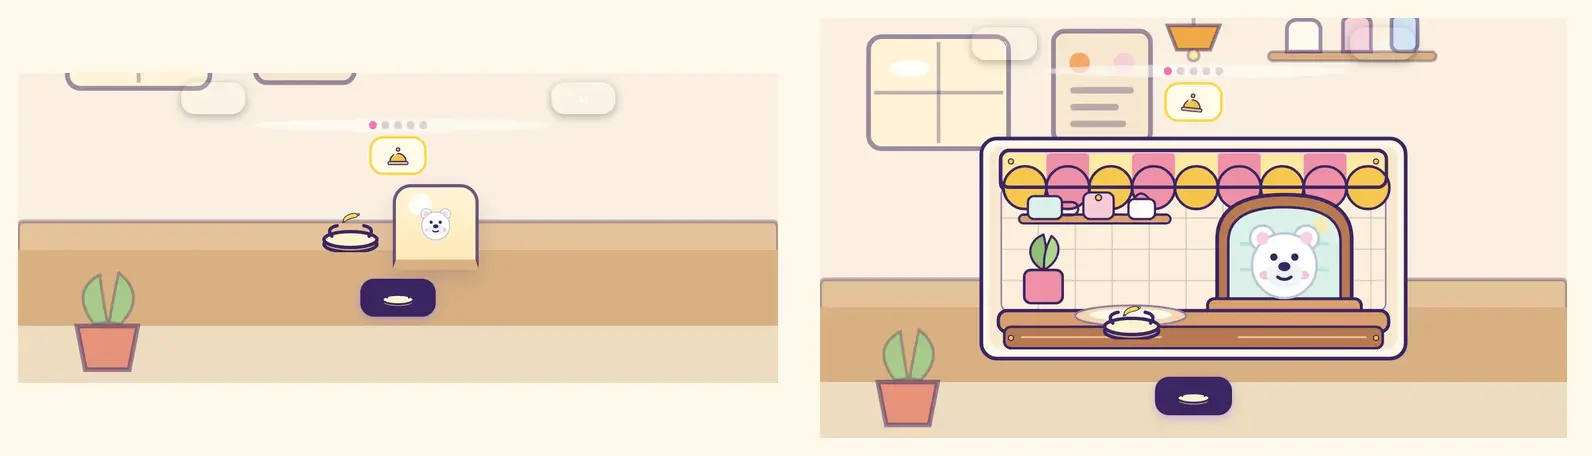
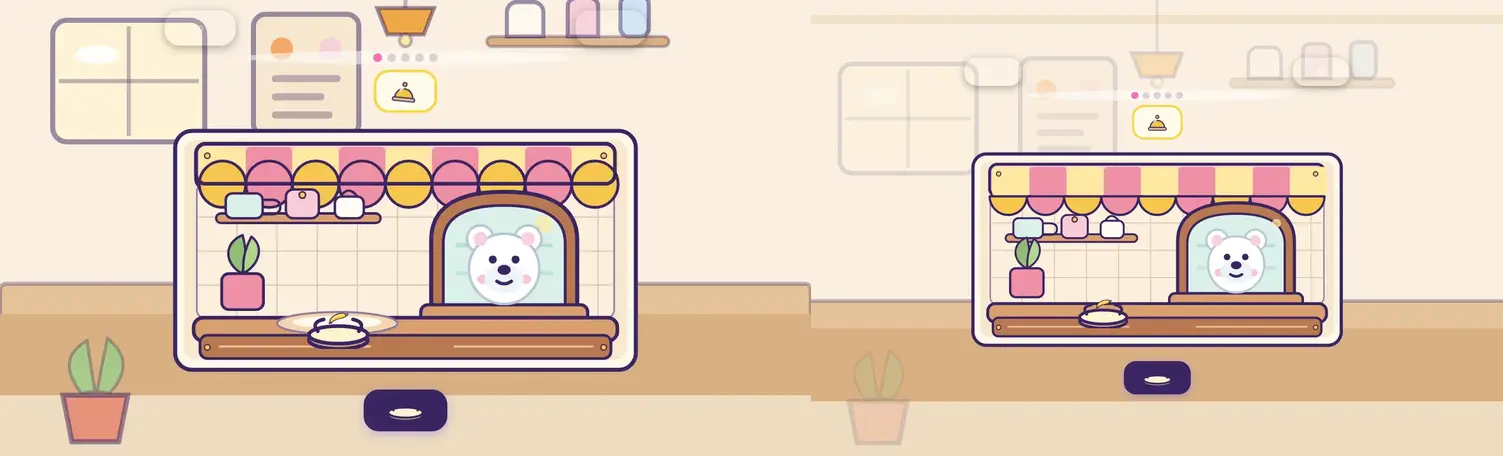
Decrowd the pickup-window proof per owner feedback
The awning becomes true half-disc scallops (no rail through overlapping
balls), the painted counter plate is removed so the live order owns the
zone, the glass shine moves off the customer, the wall shelf drops out
of the awning band, the base environment props step back during
delivery, and the mobile delivery cluster centers so the counter reads
as ground instead of dead space. Editable source and export updated
together; all three evidence captures refreshed; contact sheet is now
pilot-vs-revision. Look approval still pending.

diff --git a/learning-playground/src/styles/child-ui.css b/learning-playground/src/styles/child-ui.css
@@ -3056,6 +3056,17 @@
   gap: var(--space-md);
 }
 
+/* While the production-art scene is on stage, the wall props step back and
+   the stage centers vertically: the proof frame owns the composition, and
+   the counter band reads as ground instead of dead space on mobile. */
+.bear-cafe-environment[data-stage='delivery'] .cafe-env__prop--minor {
+  opacity: 0.28;
+}
+
+.bear-cafe:has(.bear-cafe-delivery__scene--art-proof) .bear-cafe-delivery {
+  margin-block: auto;
+}
+
 /* Production-art proof: the static Inkscape scene frames the existing live
    order and customer. It is decoration only and never owns interaction state. */
 .bear-cafe-delivery__scene--art-proof {

diff --git a/learning-playground/docs/work-contracts/bear-cafe-pickup-proof-decrowd.md b/learning-playground/docs/work-contracts/bear-cafe-pickup-proof-decrowd.md
@@ -1,0 +1,135 @@
+# Bear Cafe pickup-window proof — decrowd revision (art arc slice 1)
+
+Revision of the pickup-window production-art proof (draft PR #92 @
+4eead82) addressing Juan's verdict: "looks okay, but crowded and
+elements overlap." No version bump — the proof branch still does not
+consume a release number pending look approval (per the pilot's own
+contract).
+
+## Before Code
+
+### Root Cause
+
+The proof composed a complete scene UNDERNEATH pre-existing dynamic and
+environment layers instead of composing WITH them. Four concrete
+overlap classes, confirmed against the capture pixels and the SVG
+source:
+
+1. **Awning self-overlap** — nine FULL circles (r=58, spacing 116 <
+   diameter 123) centered ON the awning's bottom edge, with a border
+   rect re-stroked over them: neighbors collide and the rail cuts
+   through every ball.
+2. **Backdrop vs dynamic layers** — the painted counter plate
+   (ellipse at 430,500) sits exactly under the CSS-positioned live
+   order (left 36% / bottom 12%) → double plate; the glass shine
+   (944,254 r23) overlaps the live bear's ear.
+3. **Backdrop internal crowding** — the wall shelf (teapot/jar/cup,
+   y166–238) intrudes into the awning band (scallop bottom ≈ y210).
+4. **Environment collisions + mobile dead band** — the base
+   `bear-cafe-environment` wall props (window, menu board, lamp, wall
+   shelf) stay at full strength behind the proof scene and the
+   floating bell chip / topbar pills; on mobile the base counter band
+   fills the bottom half of the viewport with dead space below the
+   compact scene.
+
+### Correct Fix Must Touch
+
+- `public/assets/images/bear-cafe-pickup-window-proof.svg` AND
+  `design-source/bear-cafe/bear-cafe-pickup-window-proof.svg` (kept in
+  step): true half-disc scallops hanging below the valance edge
+  (edge-to-edge, alternating colors, no overlay stroke through them);
+  painted counter plate REMOVED (the live order owns that zone); glass
+  shine shrunk + moved to the glass corner away from the bear; wall
+  shelf lowered out of the awning band.
+- `src/styles/child-ui.css` —
+  - during the art-proof delivery stage
+    (`.bear-cafe-environment[data-stage='delivery']`), quiet the minor
+    wall props (`cafe-env__prop--minor`) so the proof scene owns the
+    frame (fade, not remove: the environment remains one system);
+  - mobile: let the delivery layout center and the scene breathe
+    (reduce the dead counter band below the scene).
+- Fresh captures (desktop / mobile / contact sheet) replacing the
+  pilot's, same filenames.
+- Provenance ledger entry: revision noted, look approval still
+  pending.
+- This contract.
+
+### Must Not Change
+
+- No gameplay, ordering, delivery, event, or speech change; the scene
+  stays decoration-only (`aria-hidden`, `pointer-events: none`).
+- The dynamic order/tray/bear elements and their tap behavior are
+  untouched (their CSS positions may be tuned only if a reserved zone
+  requires it — record if so).
+- No rollout beyond the delivery stage; no other game touched; PR #92
+  stays draft; merge stays blocked on Juan's look approval.
+- Editable source and export must not diverge (same geometry edits in
+  both).
+
+### Verification Plan
+
+- `npm run typecheck` / `npm test` / `npm run test:viewport` /
+  `npm run build` / `git diff --check`.
+- Inkscape (flatpak, 1.4.4) export verification: render the revised
+  source headless and diff against the shipped export geometry.
+- Live dev-server pass at 1366×900 + 390×844 through the real order →
+  delivery flow; recapture all three evidence images; zero console
+  errors.
+
+## Contract Amendments
+
+- **Stage centering scoped to the delivery section** — the first
+  attempt (`justify-content: center` on the stage) pulled the topbar
+  pills down with everything else at 390×844; replaced with
+  `margin-block: auto` on `.bear-cafe-delivery` so the chrome stays
+  top-anchored and only the delivery cluster centers. Caught in the
+  live capture pass.
+
+## Cold Diff Audit
+
+Gaps first: **none found.** Every contract item is in the diff; one
+amendment recorded above. Non-scope held: zero gameplay/event/speech
+changes (no `.ts` file touched), the dynamic order/bear CSS positions
+untouched, no rollout beyond the delivery stage, source and export
+carry identical geometry.
+
+Change-by-change reconstruction (7 files):
+
+1. `public/assets/images/bear-cafe-pickup-window-proof.svg` — nine
+   overlapping full circles (r=58 at cy=153) + the border rect
+   re-stroked over them replaced by nine edge-to-edge half-disc
+   scallops hanging from y=152 (`M x 152 a 58,58 0 0 0 116,0 z`,
+   alternating fills); valance fill rect trimmed 112→100 tall so its
+   edge meets the scallop tops; painted counter plate (two ellipses at
+   430,500) removed — the live order owns that zone; glass shine
+   944,254 r23 → 972,236 r14 (off the customer's ear); wall shelf
+   rail + teapot/jar/cup lowered 44px out of the awning band.
+2. `design-source/bear-cafe/bear-cafe-pickup-window-proof.svg` — the
+   identical geometry edits in the Inkscape source (kept in step;
+   verified by headless flatpak Inkscape render of the export).
+3. `src/styles/child-ui.css` —
+   `[data-stage='delivery'] .cafe-env__prop--minor { opacity: 0.28 }`
+   (wall props step back while the proof scene is on stage) and
+   `.bear-cafe:has(--art-proof scene) .bear-cafe-delivery
+   { margin-block: auto }` (mobile dead band becomes ground under the
+   centered scene; amendment 1).
+4. `docs/art/asset-provenance.md` — revision note appended to the
+   proof-family entry; status unchanged (`rights_verified`, look
+   approval still pending).
+5.–6. `docs/captures/bear-cafe/pickup-window-proof-desktop.webp` /
+   `-mobile.webp` — recaptured through the REAL order flow (call →
+   banana → check → delivery) at 1366×900 and 390×844.
+7. `docs/captures/bear-cafe/pickup-window-proof-contact-sheet.webp` —
+   now pilot-vs-revision (the crowded 4eead82 desktop capture beside
+   the decrowded one) — the exact artifact for the look decision.
+8. `docs/work-contracts/bear-cafe-pickup-proof-decrowd.md` — this
+   file.
+
+Verification actually run: `npm run typecheck` (clean); `npm test`
+(57 files / 762 tests); `npm run test:viewport` (6/6); `npm run build`
+(clean); `git diff --check` (clean); headless Inkscape 1.4.4 render of
+the revised export inspected (scallops/plate/shine/shelf confirmed in
+pixels); live dev-server play-through to delivery on both viewports
+with all three evidence captures refreshed.
+
+Gap audit: **DONE**.

diff --git a/learning-playground/docs/art/asset-provenance.md b/learning-playground/docs/art/asset-provenance.md
@@ -96,4 +96,4 @@ and must also document every legacy asset family it modifies or re-exports.
 - **Desktop screenshot path(s):** `docs/captures/bear-cafe/pickup-window-proof-desktop.webp`
 - **Mobile screenshot path(s):** `docs/captures/bear-cafe/pickup-window-proof-mobile.webp`
 - **Owner look approval:** Pending; this proof must not trigger broad Bear Cafe rollout before explicit approval
-- **Restrictions and notes:** Static decorative environment only. Dynamic bear, order, tray, and Deliver control remain runtime-owned. No Canva/Figma library content, stock media, font, icon pack, texture, Content Foundry output, or generative image tool was used.
+- **Restrictions and notes:** Static decorative environment only. Dynamic bear, order, tray, and Deliver control remain runtime-owned. No Canva/Figma library content, stock media, font, icon pack, texture, Content Foundry output, or generative image tool was used. Decrowd revision (2026-07-11, owner feedback "crowded, elements overlap"): awning rebuilt as true half-disc scallops, painted counter plate removed (live order owns the zone), glass shine moved off the customer, wall shelf lowered out of the awning band, base environment props quieted during delivery, mobile delivery centered; editable source and export updated together.